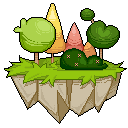
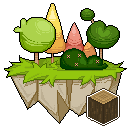
Update Images

Changed region(s): [[0.6562, 0.6875, 0.9375, 1.0]]

diff --git a/Planet Run/src/MainUI.java b/Planet Run/src/MainUI.java
@@ -37,7 +37,7 @@ public class MainUI extends JPanel implements ActionListener, Runnable {
     private static Animal[] animalDeck;
     public static Color btnColor = new Color(70, 130, 180);
 
-    private static JLabel food, wood, rock, sand, star, energy, HP;
+    private static JLabel food, wood, rock, sand, star;
 
     public MainUI() {
         Dimension screenSize = Toolkit.getDefaultToolkit().getScreenSize();
@@ -159,12 +159,12 @@ public class MainUI extends JPanel implements ActionListener, Runnable {
         ImageIcon rockIcon = new ImageIcon(new ImageIcon("src/images/rock.png").getImage().getScaledInstance(32, 32, Image.SCALE_DEFAULT));
         ImageIcon sandIcon = new ImageIcon(new ImageIcon("src/images/sand.png").getImage().getScaledInstance(32, 32, Image.SCALE_DEFAULT));
         ImageIcon starIcon = new ImageIcon(new ImageIcon("src/images/star.png").getImage().getScaledInstance(32, 32, Image.SCALE_DEFAULT));
-        ImageIcon HPIcon = new ImageIcon(new ImageIcon("src/images/star.png").getImage().getScaledInstance(32, 32, Image.SCALE_DEFAULT));
+        ImageIcon HPIcon = new ImageIcon(new ImageIcon("src/images/heart.png").getImage().getScaledInstance(32, 32, Image.SCALE_DEFAULT));
         ImageIcon energyIcon = new ImageIcon(new ImageIcon("src/images/star.png").getImage().getScaledInstance(32, 32, Image.SCALE_DEFAULT));
 
         setSector();
 
-        rest = new JButton("Rest");
+        rest = new JButton("Rest", HPIcon);
         rest.setPreferredSize(new Dimension(screenScale(100), screenScale(50)));
         rest.setBackground(btnColor);
         rest.setForeground(Color.WHITE);
